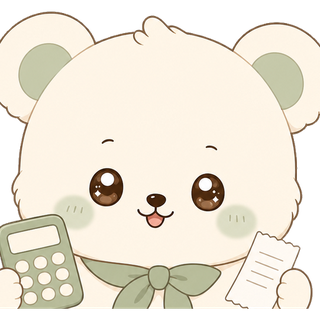
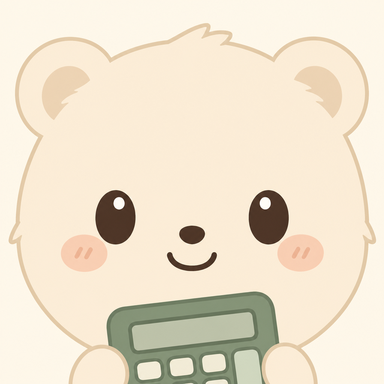
Deploy Kindsem UI and rates to kindsem.com.

diff --git a/components/site-footer.tsx b/components/site-footer.tsx
@@ -1,4 +1,6 @@
 import Link from "next/link"
+import { Sena } from "@/components/sena"
+import { MASCOT } from "@/lib/brand"
 import { calcSeo } from "@/lib/seo"
 import { calcFooterGroups } from "@/lib/site-urls"
 import { CONTACT_EMAIL } from "@/lib/site"
@@ -8,9 +10,14 @@ export function SiteFooter() {
   return (
     <footer className="mt-auto border-t border-border/70">
       <div className="mx-auto max-w-5xl px-4 py-10 text-sm text-muted-foreground">
-        <div className="mb-6">
-          <p className="text-[13px] font-semibold text-foreground">Kindsem 카인드셈</p>
-          <p className="mt-1 text-xs">생활·급여·부동산 계산기</p>
+        <div className="mb-6 flex items-center gap-3">
+          <Sena variant="icon" className="size-11 rounded-2xl ring-1 ring-primary/25" />
+          <div>
+            <p className="text-[13px] font-semibold text-foreground">Kindsem 카인드셈</p>
+            <p className="mt-0.5 text-xs">
+              {MASCOT.name} · {MASCOT.meaning}
+            </p>
+          </div>
         </div>
 
         <nav aria-label="계산기" className="grid gap-x-6 gap-y-7 sm:grid-cols-2 lg:grid-cols-4">

diff --git a/app/page.tsx b/app/page.tsx
@@ -4,6 +4,7 @@ import { HomeBrowse } from "@/components/home-browse"
 import { HomeWhy } from "@/components/home-why"
 import { JsonLd } from "@/components/json-ld"
 import { Sena } from "@/components/sena"
+import { MASCOT } from "@/lib/brand"
 import { HOME_METADATA, homeJsonLd } from "@/lib/seo"
 
 const HOME_FAQ = [
@@ -45,8 +46,16 @@ export default function HomePage() {
             실수령액, 주휴수당, 퇴직금, 취득세, 중개수수료, 자동차세, 양도세, DSR.
           </p>
         </div>
-        <figure className="w-[4.5rem] shrink-0 sm:w-[5.25rem] md:w-24 lg:w-[6.5rem]">
+        <figure className="w-[5.25rem] shrink-0 sm:w-24 md:w-28 lg:w-[7.25rem]">
           <Sena className="sena-bob" priority />
+          <figcaption className="mt-1.5 text-center">
+            <span className="block text-[11px] font-semibold tracking-tight text-foreground">
+              {MASCOT.name}
+            </span>
+            <span className="mt-0.5 hidden text-[10px] leading-4 text-muted-foreground sm:block">
+              {MASCOT.meaning}
+            </span>
+          </figcaption>
         </figure>
       </section>
 

diff --git a/components/sena.tsx b/components/sena.tsx
@@ -7,17 +7,30 @@ export function Sena({
   className,
   priority = false,
 }: {
-  variant?: "full" | "face"
+  variant?: "full" | "face" | "icon"
   className?: string
   priority?: boolean
 }) {
+  if (variant === "icon") {
+    return (
+      <Image
+        src="/kindsem-sena-icon.png"
+        alt={MASCOT.name}
+        width={512}
+        height={512}
+        className={cn("size-9 object-contain", className)}
+        priority={priority}
+      />
+    )
+  }
+
   if (variant === "face") {
     return (
       <Image
         src="/kindsem-sena-face.png"
         alt={MASCOT.name}
-        width={320}
-        height={320}
+        width={384}
+        height={384}
         className={cn("size-11 object-contain", className)}
         priority={priority}
       />
@@ -28,8 +41,8 @@ export function Sena({
     <Image
       src="/kindsem-sena.png"
       alt={MASCOT.alt}
-      width={614}
-      height={720}
+      width={640}
+      height={960}
       className={cn("h-auto w-full", className)}
       priority={priority}
     />

diff --git a/app/not-found.tsx b/app/not-found.tsx
@@ -5,11 +5,13 @@ import { MASCOT } from "@/lib/brand"
 export default function NotFound() {
   return (
     <div className="mx-auto flex w-full max-w-lg flex-1 flex-col items-start justify-center px-4 py-16">
-      <Sena className="mb-6 w-28" />
-      <p className="text-sm text-primary">Kindsem</p>
+      <Sena className="mb-4 w-24" />
+      <p className="text-sm font-medium text-primary">
+        {MASCOT.name} · {MASCOT.meaning}
+      </p>
       <h1 className="mt-2 text-2xl font-semibold">이 계산은 아직 없어요</h1>
       <p className="mt-2 text-sm leading-6 text-muted-foreground">
-        {MASCOT.name}가 목록에 있는 계산만 세어 줄 수 있어요. 실생활에 필요한 것만 모아 두었습니다.
+        {MASCOT.name}는 목록에 있는 계산만 셉니다. 실생활에 필요한 것만 모아 두었습니다.
       </p>
       <Link href="/" className="mt-6 text-sm font-medium text-primary hover:underline">
         계산 모음으로

diff --git a/lib/brand.test.ts b/lib/brand.test.ts
@@ -1,0 +1,19 @@
+import assert from "node:assert/strict"
+import { existsSync } from "node:fs"
+import { join } from "node:path"
+import test from "node:test"
+import { MASCOT } from "./brand.ts"
+
+test("세나 이름과 뜻이 카인드셈 얼굴이다", () => {
+  assert.equal(MASCOT.name, "세나")
+  assert.equal(MASCOT.meaning, "내가 세어 줄게요")
+  assert.match(MASCOT.alt, /계산기/)
+})
+
+test("세나 그림 파일이 공개 폴더에 있다", () => {
+  const root = join(process.cwd(), "public")
+  assert.equal(existsSync(join(root, "kindsem-sena.png")), true)
+  assert.equal(existsSync(join(root, "kindsem-sena-face.png")), true)
+  assert.equal(existsSync(join(root, "kindsem-sena-icon.png")), true)
+  assert.equal(existsSync(join(root, "favicon.ico")), true)
+})

diff --git a/components/calc/calc-shell.tsx b/components/calc/calc-shell.tsx
@@ -4,7 +4,6 @@ import { useEffect, useState, type ReactNode } from "react"
 import Link from "next/link"
 import { ArrowLeft } from "lucide-react"
 import { RelatedCalcs } from "@/components/calc/related-calcs"
-import { Sena } from "@/components/sena"
 import type { CalcItem } from "@/lib/catalog"
 import { calcSeo } from "@/lib/seo"
 import { rememberRecentCalc } from "@/lib/recent-calcs"
@@ -76,9 +75,7 @@ export function CalcShell({
             </p>
           ) : null}
         </div>
-        {/* 데스크톱 제목 옆 작은 칸. 모바일은 접어 입력칸이 위에 오게 합니다. */}
         <AdSenseInPage size="compact" />
-        <Sena className="hidden w-12 shrink-0 sm:block md:hidden" />
       </div>
       {guide ? (
         <div className="mb-5 flex gap-2">

diff --git a/components/brand-mark.tsx b/components/brand-mark.tsx
@@ -6,8 +6,8 @@ import { Sena } from "@/components/sena"
 export function BrandMark() {
   return (
     <span className="flex items-center gap-2 sm:gap-2.5">
-      <span className="grid size-8 shrink-0 place-items-center overflow-hidden rounded-full bg-card ring-1 ring-primary sm:size-9">
-        <Sena variant="face" className="size-[2.15rem] object-contain sm:size-10" priority />
+      <span className="grid size-8 shrink-0 place-items-center overflow-hidden rounded-full bg-card ring-1 ring-primary/40 sm:size-9">
+        <Sena variant="face" className="size-[2.35rem] object-cover sm:size-11" priority />
       </span>
       <span className="flex min-w-0 flex-col justify-center leading-none">
         <span className="flex items-baseline gap-1.5">

diff --git a/lib/brand.ts b/lib/brand.ts
@@ -1,5 +1,5 @@
 export const MASCOT = {
   name: "세나",
   meaning: "내가 세어 줄게요",
-  alt: "세나, 카인드셈 마스코트",
+  alt: "세나, 카인드셈 마스코트. 크림색 곰이 세이지 계산기와 영수증을 들고 있습니다.",
 } as const

diff --git a/README.md b/README.md
@@ -6,7 +6,7 @@
 
 ## 테마
 
-따뜻한 크림 종이 위에 부드러운 세이지 그린입니다. 눈 편한 색감으로, 이름처럼 부담 없이 쓰도록 맞췄습니다. 마스코트 **세나**는 셈과 나(내가 세어 줄게요)를 붙인 이름으로, 부르기 쉽게 맞춰 두었습니다.
+따뜻한 크림 종이 위에 부드러운 세이지 그린입니다. 눈 편한 색감으로, 이름처럼 부담 없이 쓰도록 맞췄습니다. 마스코트 **세나**는 셈과 나(내가 세어 줄게요)를 붙인 이름입니다. 크림색 곰이 세이지 계산기와 영수증을 들고 있고, 그 얼굴이 헤더·홈·하단·파비콘에 같습니다.
 
 ## 계산기
 
